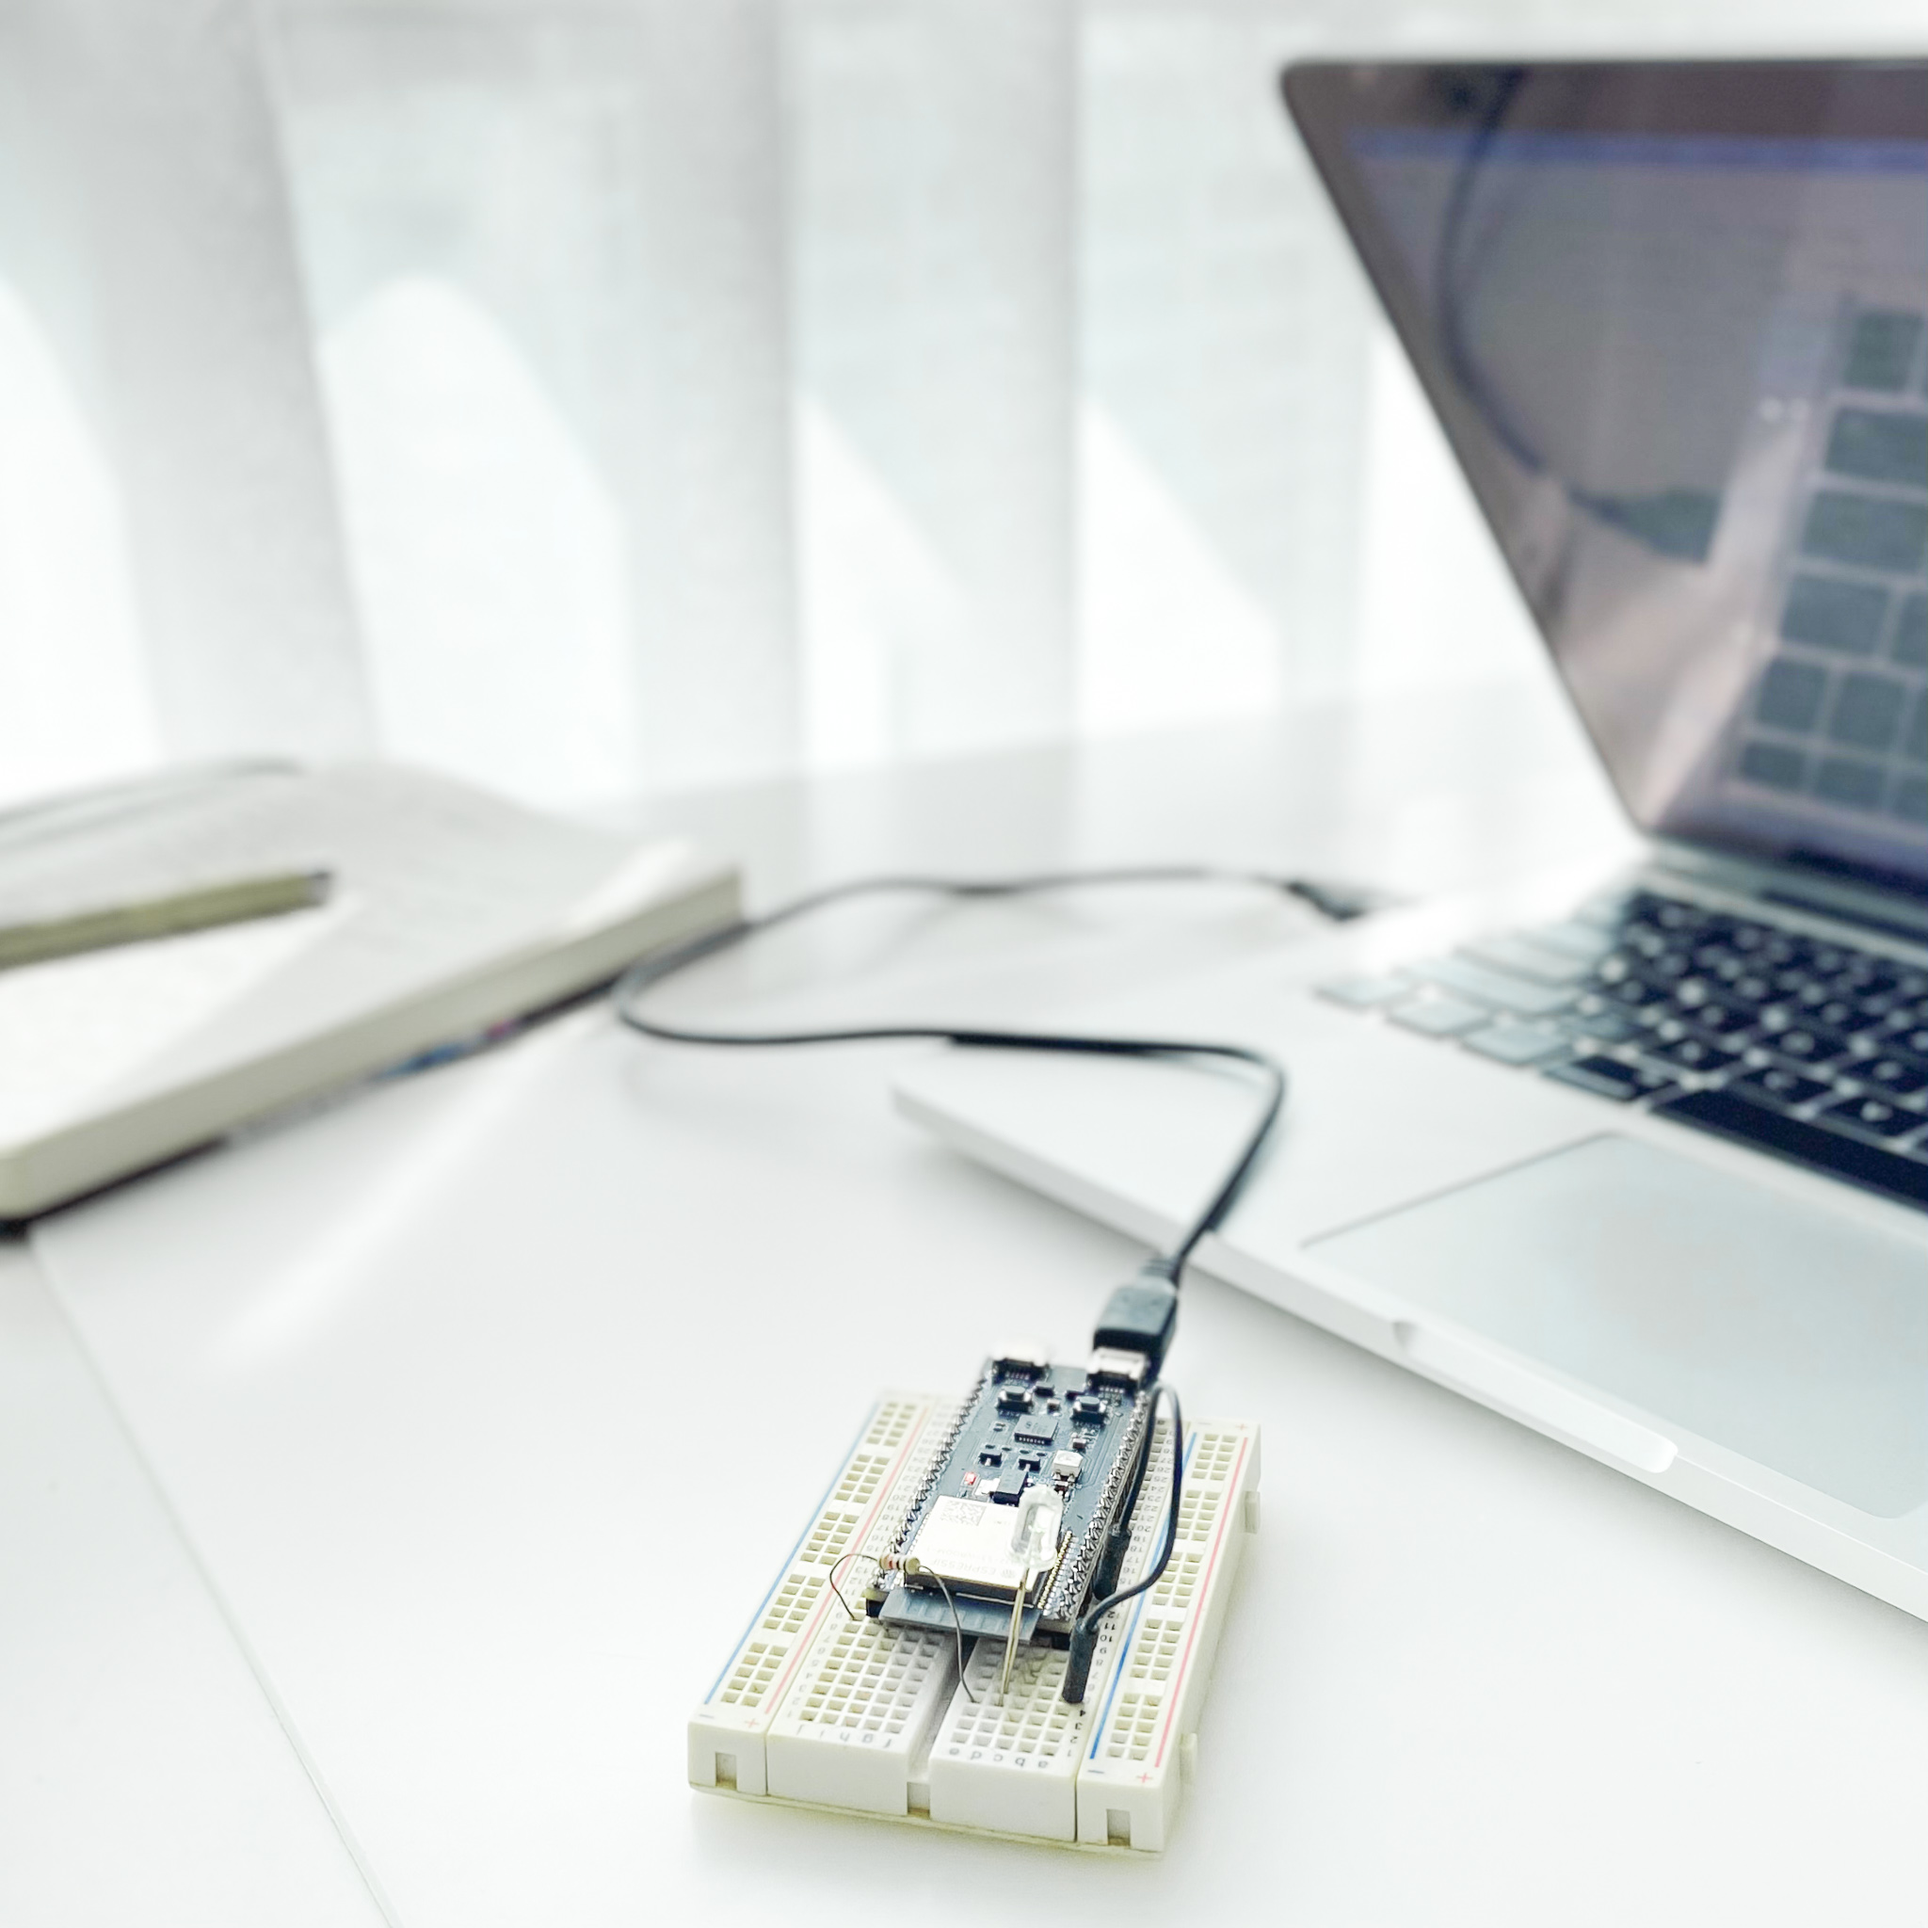
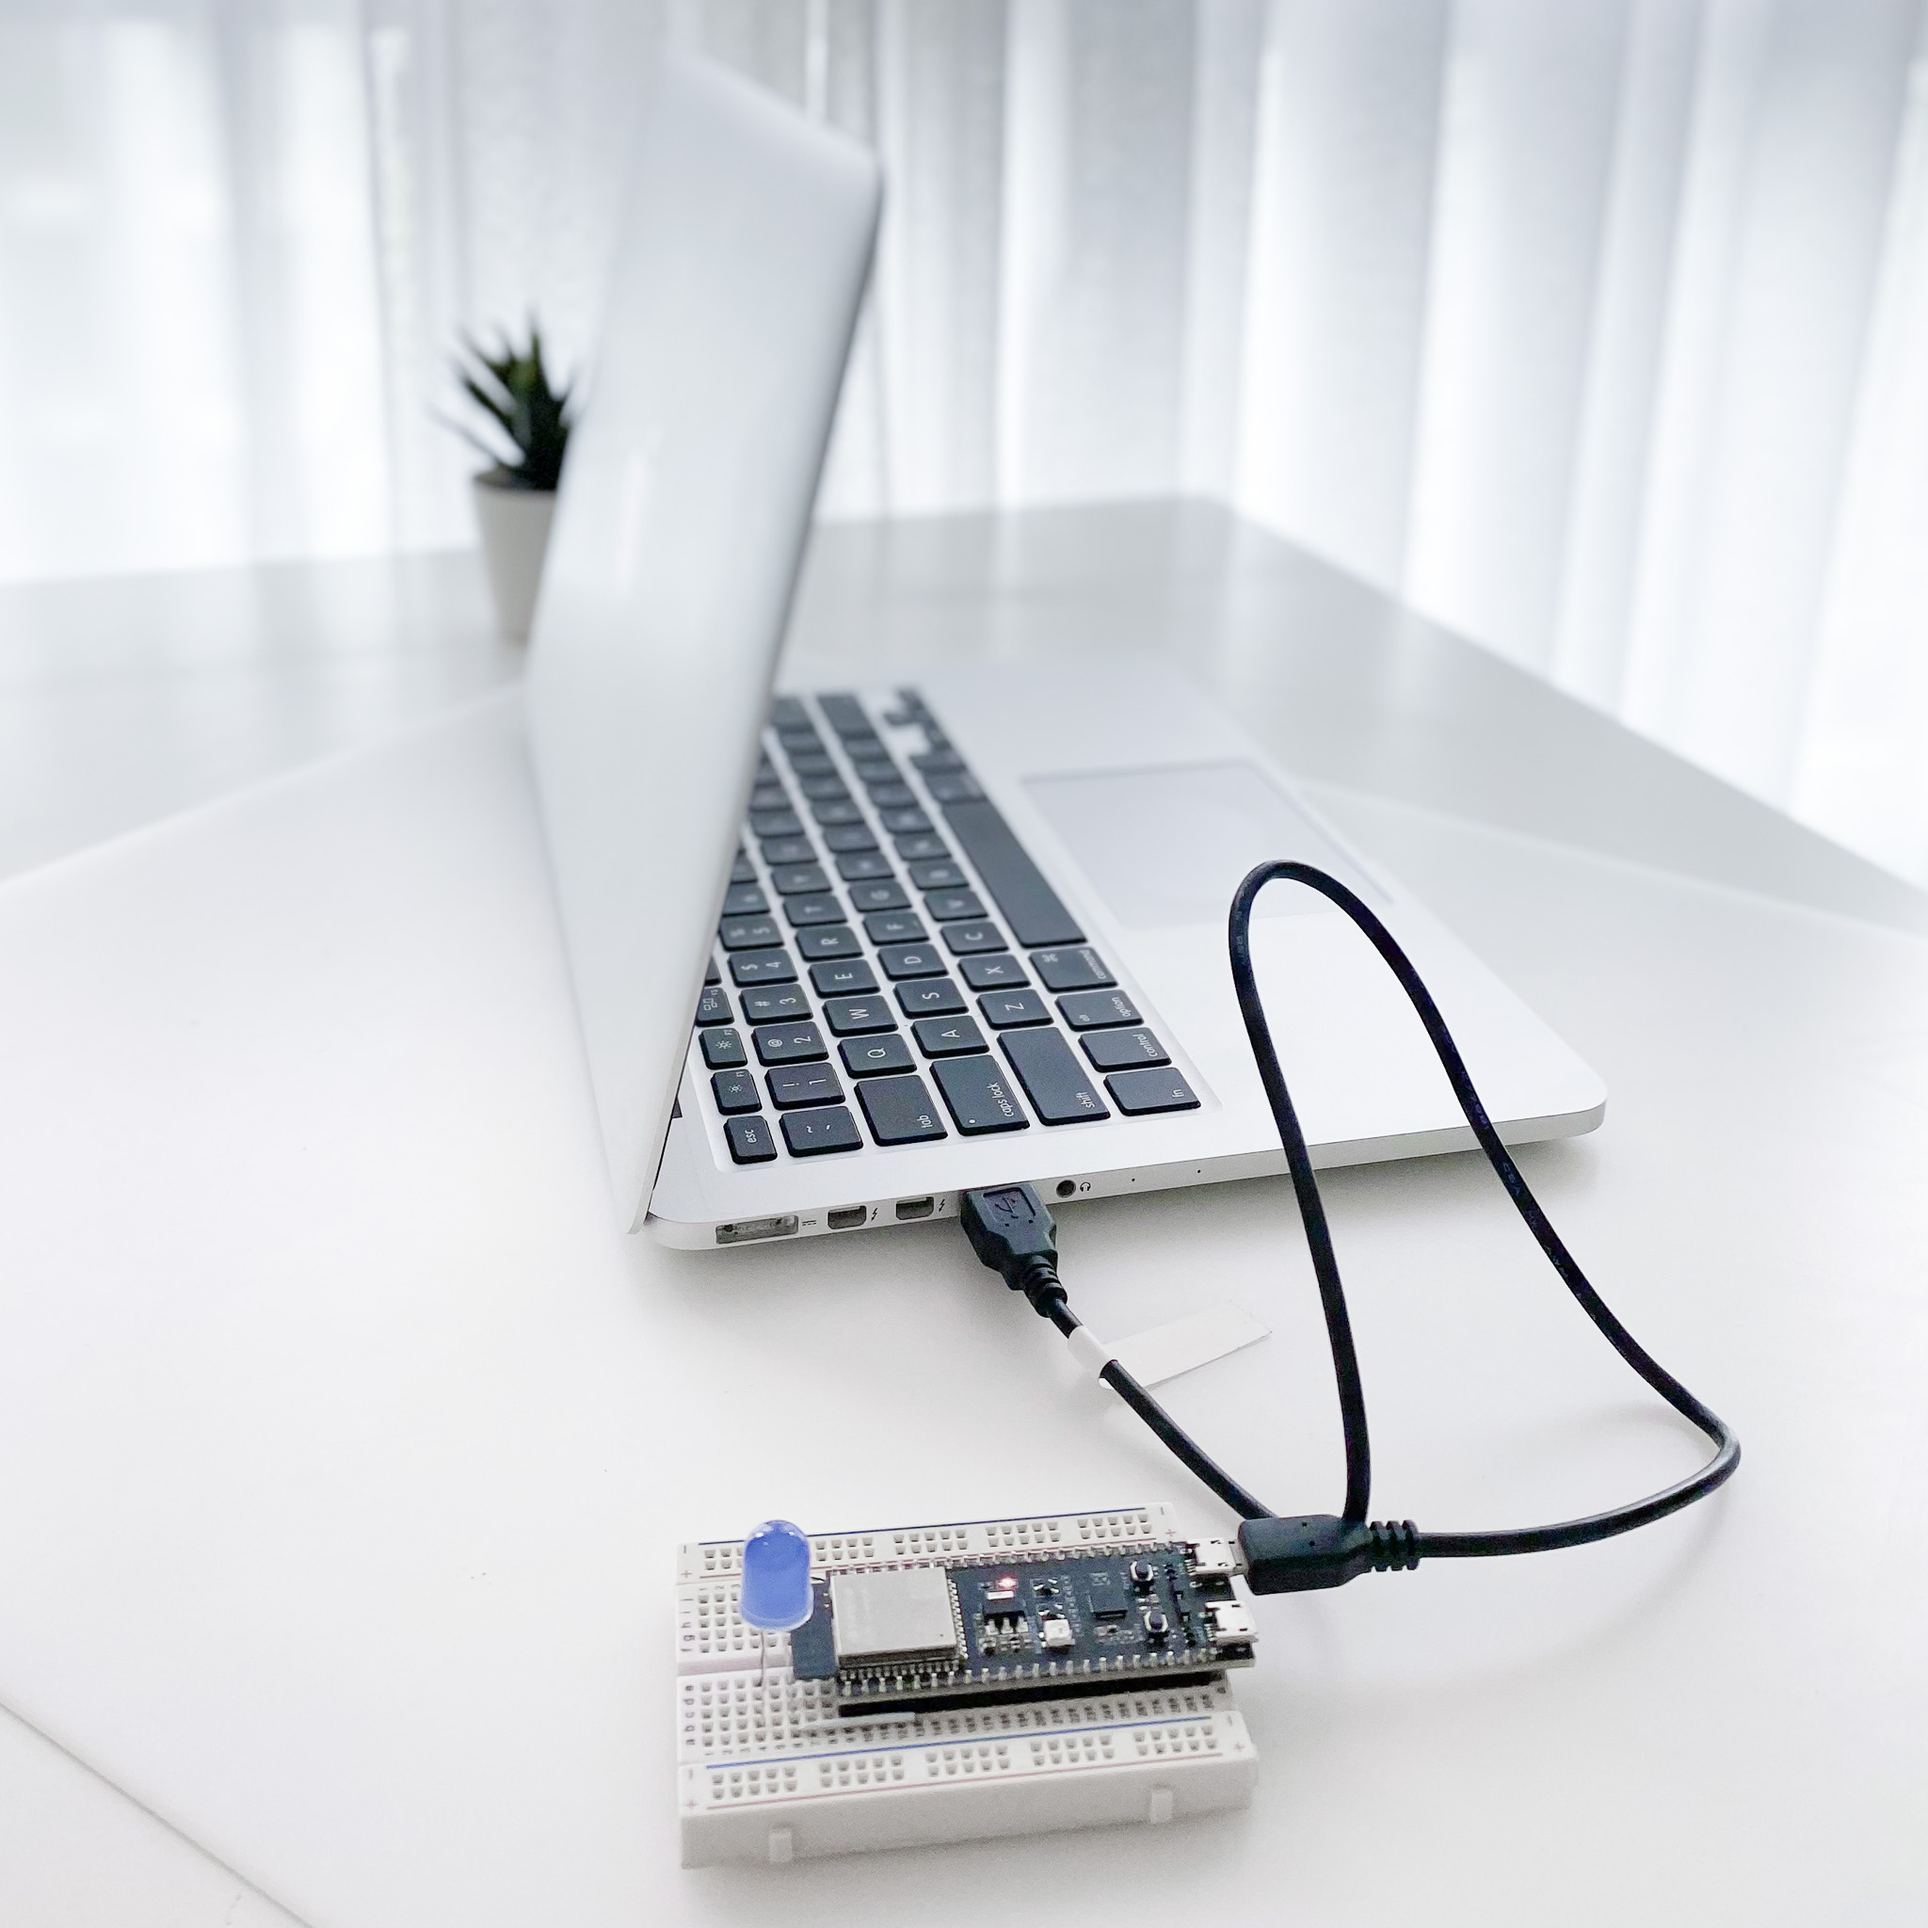
docs: add new images with PSU and LED

diff --git a/_tutorials/blinky-arduino-esp32s3.md b/_tutorials/blinky-arduino-esp32s3.md
@@ -26,13 +26,15 @@ images:
   list:
     - image: blinky-esp32s3-gpio5.jpg
       description: Use GPIO5 to add a simple external LED
+    - image: blinky-esp32s3-gpio5-top.jpg
+      description: Use GPIO5 to add a simple external LED
     - image: hello-esp32s3-uart.jpg
       description: Change to the UART port to view the serial monitor
-    - image: blinky-esp32s3-uart-bridge-schematic.png
-      description: Use an UART-USB bridge with an external power supply to view the serial monitor
     - image: blinky-esp32s3-uart-bridge-prototype.jpg
       description: Setup of using an external USB power with an UART-USB bridge to the computer
     - image: blinky-esp32s3-psu-prototype.jpg
+      description: Setup of using an external power supply with an UART-USB bridge to the computer
+    - image: blinky-esp32s3-psu-prototype-top.jpg
       description: Setup of using an external power supply with an UART-USB bridge to the computer
 features:
   - blinky

diff --git a/_tutorials/blinky-esphome-esp32s3.md b/_tutorials/blinky-esphome-esp32s3.md
@@ -14,6 +14,9 @@ images:
   prototype: blinky-esp32s3-gpio5.jpg
   console: blinky-esphome-esp32s3-console.png
   schematic: blinky-arduino-esp32s3-schematic.png
+  list:
+    - image: blinky-esp32s3-gpio5-top.jpg
+      description: Use GPIO5 to add a simple external LED
 features:
   - esphome
   - esp32s3

diff --git a/_tutorials/blinky-micropython-esp32s3.md b/_tutorials/blinky-micropython-esp32s3.md
@@ -20,6 +20,9 @@ images:
   prototype: blinky-esp32s3-gpio5.jpg
   schematic: blinky-arduino-esp32s3-schematic.png
   console: blinky-micropython-esp32s3-console.png
+  list:
+    - image: blinky-esp32s3-gpio5-top.jpg
+      description: Use GPIO5 to add a simple external LED
 features:
   - blinky
   - led

diff --git a/_tutorials/blinky-tasmota-esp32s3.md b/_tutorials/blinky-tasmota-esp32s3.md
@@ -23,6 +23,9 @@ has_code: false
 images:
   prototype: blinky-esp32s3-gpio5.jpg
   schematic: blinky-arduino-esp32s3-schematic.png
+  list:
+    - image: blinky-esp32s3-gpio5-top.jpg
+      description: Use GPIO5 to add a simple external LED
 features:
   - tasmota
   - esp32s3

diff --git a/_tutorials/blinky-rust-esp32s3.md b/_tutorials/blinky-rust-esp32s3.md
@@ -15,6 +15,9 @@ components:
 images:
   console: blinky-rust-esp32s3-console.png
   prototype: blinky-esp32s3-gpio5.jpg
+  list:
+    - image: blinky-esp32s3-gpio5-top.jpg
+      description: Use GPIO5 to add a simple external LED
 features:
   - rust
   - serial
